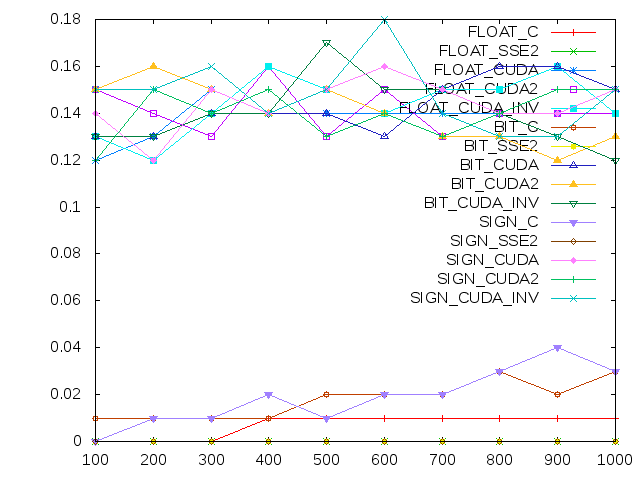
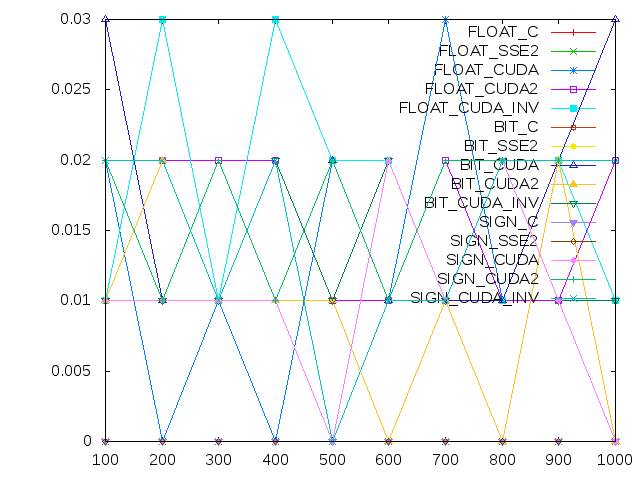
git-svn-id: svn://svn.code.sf.net/p/preann/code@189 4c7faa8c-6334-4fdc-ad45-69cacb9c43d3

diff --git a/preann/src/test/testNeuralNets.cpp b/preann/src/test/testNeuralNets.cpp
@@ -93,51 +93,52 @@ int main(int argc, char *argv[])
 
 	try
 	{
-		for (unsigned vectType = 0; vectType < VECTOR_TYPE_DIM; vectType++)
-		{
-			VectorType vectorType = (VectorType)vectType;
-			if (vectorType != BYTE)
-			{
-				for (unsigned size = SIZE_MIN; size <= SIZE_MAX; size
-						+= SIZE_INC)
-				{
-					NeuralNet controlNeuralNet(C);
-					controlNeuralNet.createFeedForwardNet(size, vectorType,
-							NUM_TRIES, size, vectorType, IDENTITY);
-//					controlNeuralNet.createFullyConnectedNet(size, vectorType,
-//							NUM_LAYERS, size, vectorType, IDENTITY);
-					controlNeuralNet.randomWeighs(INITIAL_WEIGHS_RANGE);
-
-					FILE* stream = fopen(PATH, "w+b");
-					controlNeuralNet.save(stream);
-					fclose(stream);
-
-					controlNeuralNet.calculateOutput();
-
-					for (unsigned implType = 0; implType
-							< IMPLEMENTATION_TYPE_DIM; implType++)
-					{
-						ImplementationType implementationType =
-								(ImplementationType)((implType));
-						printTestParams(implementationType, vectorType, size);
-
-						NeuralNet nn(implementationType);
-						stream = fopen(PATH, "r+b");
-						nn.load(stream);
-						fclose(stream);
-						nn.getInput(0)->copyFromFast(controlNeuralNet.getInput(0));
-
-						//test calculation
-						nn.calculateOutput();
-						unsigned differences =
-								Test::assertEqualsInterfaces(controlNeuralNet.getOutput(0),
-										nn.getOutput(0));
-						if (differences != 0)
-							printf("Errors on outputs: %d \n", differences);
-					}
-				}
-			}
-		}
+		//TODO AAAAAAAAAAAAAa
+//		for (unsigned vectType = 0; vectType < VECTOR_TYPE_DIM; vectType++)
+//		{
+//			VectorType vectorType = (VectorType)vectType;
+//			if (vectorType != BYTE)
+//			{
+//				for (unsigned size = SIZE_MIN; size <= SIZE_MAX; size
+//						+= SIZE_INC)
+//				{
+//					NeuralNet controlNeuralNet(C);
+//					controlNeuralNet.createFeedForwardNet(size, vectorType,
+//							NUM_TRIES, size, vectorType, IDENTITY);
+////					controlNeuralNet.createFullyConnectedNet(size, vectorType,
+////							NUM_LAYERS, size, vectorType, IDENTITY);
+//					controlNeuralNet.randomWeighs(INITIAL_WEIGHS_RANGE);
+//
+//					FILE* stream = fopen(PATH, "w+b");
+//					controlNeuralNet.save(stream);
+//					fclose(stream);
+//
+//					controlNeuralNet.calculateOutput();
+//
+//					for (unsigned implType = 0; implType
+//							< IMPLEMENTATION_TYPE_DIM; implType++)
+//					{
+//						ImplementationType implementationType =
+//								(ImplementationType)((implType));
+//						printTestParams(implementationType, vectorType, size);
+//
+//						NeuralNet nn(implementationType);
+//						stream = fopen(PATH, "r+b");
+//						nn.load(stream);
+//						fclose(stream);
+//						nn.getInput(0)->copyFromFast(controlNeuralNet.getInput(0));
+//
+//						//test calculation
+//						nn.calculateOutput();
+//						unsigned differences =
+//								Test::assertEqualsInterfaces(controlNeuralNet.getOutput(0),
+//										nn.getOutput(0));
+//						if (differences != 0)
+//							printf("Errors on outputs: %d \n", differences);
+//					}
+//				}
+//			}
+//		}
 		printf("Exit success.\n");
 		mem_printTotalAllocated();
 		mem_printTotalPointers();

diff --git a/preann/src/common/test.cpp b/preann/src/common/test.cpp
@@ -48,7 +48,7 @@ unsigned Test::doMethod(ClassID classID, Method method)
 	unsigned toReturn;
 
 	Vector* vector = Factory::newVector(getSize(), getVectorType(), getImplementationType());
-	vector->random(getInitialWeighsRange());
+	vector->random(initialWeighsRange);
 
 	switch (classID){
 
@@ -58,7 +58,7 @@ unsigned Test::doMethod(ClassID classID, Method method)
 		case CONNECTION:
 		{
 			Connection* connection = Factory::newConnection(vector, outputSize, getImplementationType());
-			connection->random(getInitialWeighsRange());
+			connection->random(initialWeighsRange);
 			toReturn = doMethodConnection(connection, method);
 			delete(connection);
 		}
@@ -103,15 +103,15 @@ unsigned Test::doMethodConnection(Connection* connection, Method method)
 	case MUTATE:
 	{
 		unsigned pos = randomUnsigned(connection->getSize());
-		float mutation = randomFloat(getInitialWeighsRange());
+		float mutation = randomFloat(initialWeighsRange);
 		connection->mutate(pos, mutation);
-		
+
 		Vector* cInput = Factory::newVector(connection->getInput(), C);
 		Connection* cConnection = Factory::newConnection(cInput, outputSize, C);
 		cConnection->copyFrom(connection);
 
 		for(unsigned i=0; i < NUM_MUTATIONS; i++) {
-			float mutation = randomFloat(getInitialWeighsRange());
+			float mutation = randomFloat(initialWeighsRange);
 			unsigned pos = randomUnsigned(connection->getSize());
 			connection->mutate(pos, mutation);
 			cConnection->mutate(pos, mutation);
@@ -125,7 +125,7 @@ unsigned Test::doMethodConnection(Connection* connection, Method method)
 	case CROSSOVER:
 	{
 		Connection* other = Factory::newConnection(connection->getInput(), outputSize, connection->getImplementationType());
-		other->random(test.getInitialWeighsRange());
+		other->random(initialWeighsRange);
 
 		Vector* cInput = Factory::newVector(connection->getInput(), C);
 		Connection* cConnection = Factory::newConnection(cInput, outputSize, C);
@@ -167,7 +167,7 @@ unsigned Test::doMethodVector(Vector* vector, Method method)
 	{
 		FunctionType functionType = IDENTITY;
 		Vector* results = Factory::newVector(vector->getSize(), FLOAT, vector->getImplementationType());
-		results->random(getInitialWeighsRange());
+		results->random(initialWeighsRange);
 
 		Vector* cResults = Factory::newVector(results, C);
 		Vector* cVector = Factory::newVector(vector->getSize(), vector->getVectorType(), C);
@@ -184,7 +184,7 @@ unsigned Test::doMethodVector(Vector* vector, Method method)
 	case COPYFROMINTERFACE:
 	{
 		Interface interface = Interface(vector->getSize(), vector->getVectorType());
-		interface.random(getInitialWeighsRange());
+		interface.random(initialWeighsRange);
 
 		Vector* cVector = Factory::newVector(vector, C);
 

diff --git a/preann/src/test/chronoVectors.cpp b/preann/src/test/chronoVectors.cpp
@@ -21,11 +21,11 @@ int main(int argc, char *argv[])
 	plot.printParameters();
 
 	try {
-		plot.plot(path, VECTOR, COPYFROMINTERFACE, 10000);
-//		plot.plot(path, VECTOR, COPYTOINTERFACE, 1);
-		plot.plot(path, VECTOR, ACTIVATION, 10);
-//
-		plot.plot(path, CONNECTION, CALCULATEANDADDTO, 10);
+//		plot.plot(path, VECTOR, COPYFROMINTERFACE, 10000);
+//		plot.plot(path, VECTOR, COPYTOINTERFACE, 10000);
+		plot.plot(path, VECTOR, ACTIVATION, 1000);
+
+		plot.plot(path, CONNECTION, CALCULATEANDADDTO, 1000);
 //		plot.plot(path, CONNECTION, MUTATE, 100);
 //		plot.plot(path, CONNECTION, CROSSOVER, 1);
 

diff --git a/preann/include/common/util.h b/preann/include/common/util.h
@@ -36,6 +36,8 @@ typedef enum {
 	ACTIVATION,
 	COPYFROMINTERFACE,
 	COPYTOINTERFACE,
+	COPYFROM,
+	COPYTO,
 	CLONE,
 	CALCULATEANDADDTO,
 	MUTATE,
